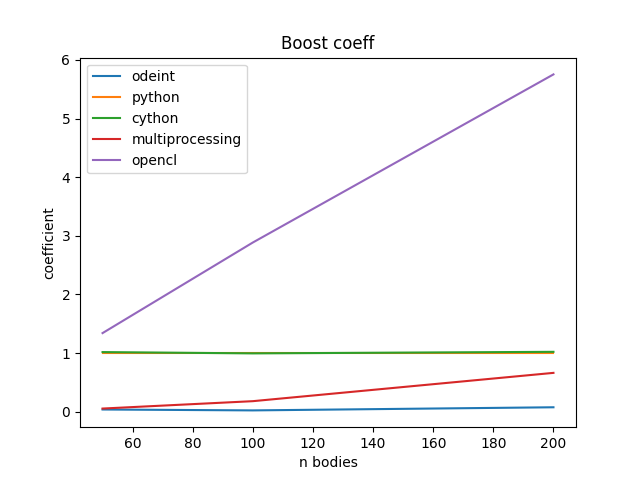
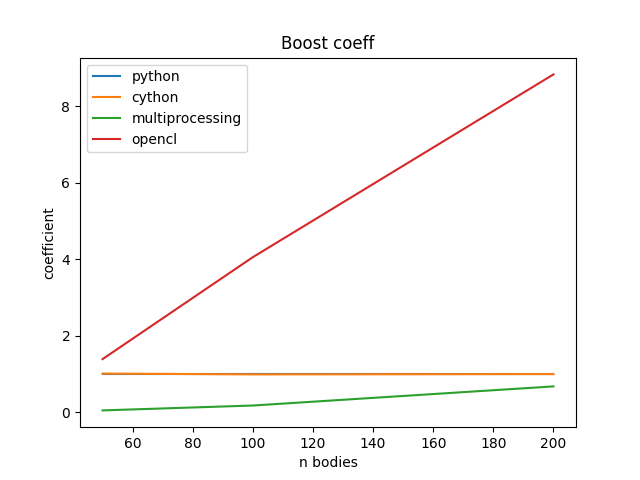
opencl KISS fix

diff --git a/task_03/test_position.py b/task_03/test_position.py
@@ -31,7 +31,7 @@ def animate_planets(planets, R, title="some_title"):
     h = 5 * scale
     plt.style.use("dark_background")
     fig = plt.figure()
-    ax = plt.axes(xlim=(-w, w + scale), ylim=(-h, h))
+    ax = plt.axes(xlim=(-w, w), ylim=(-h, h))
     ax.set_facecolor((0, 0, 0.1))
     ax.set_title(title, color="#ffffff")
 
@@ -39,7 +39,6 @@ def animate_planets(planets, R, title="some_title"):
     legend_elements = [lines.Line2D([0], [0], color=i.color, lw=lw) for i in planets]
     ax.legend(legend_elements, [i.name for i in planets], loc='upper right')
     planet_circles = [planet_to_circle(planet) for planet in planets]
-
 
     def init():
         for pc in planet_circles:
@@ -63,7 +62,7 @@ def animate_planets(planets, R, title="some_title"):
 
 if __name__ == "__main__":
     scale = 10 ** 12
-    dt = 1.5 * 10**7
+    dt = 1.5 * 10**6
     n_iters = 1000
     G= 6.6743 * 10 ** -11
 
@@ -74,7 +73,15 @@ if __name__ == "__main__":
             1.9 * 10**30,
             "#f9d71c",
             "Sun",
-             0.3 * scale
+             0.2 * scale
+        ),
+        PlanetInfo(
+            arr([0.2, 0]) * scale,
+            arr([0.0, 24.13]) * 10 ** 3,
+            6.4171 * 10**23,
+            "#a1251b",
+            "Mars",
+            0.1 * scale
         ),
         PlanetInfo(
             arr([0.8, 0]) * scale,
@@ -98,7 +105,7 @@ if __name__ == "__main__":
             0.87 * 10**26,
             "#0000ff",
             "Neptune",
-             0.1 * scale
+            0.1 * scale
         ),
         PlanetInfo(
             arr([4.5, 0.0]) * scale,
@@ -118,7 +125,7 @@ if __name__ == "__main__":
         "odeint" : python_solvers.OdeintSolver(dt, n_iters, G),
         "python" : python_solvers.PythonVerletSolver(dt, n_iters, G),
         "cython" : cython_solver.CythonSolver(dt, n_iters, G),
-        "multiprocessing" : python_solvers.MultiprocessingVerletSolver(dt, n_iters, G),
+        "multiprocessing" : python_solvers.MultiprocessingVerletSolver(dt, n_iters, G, n_workers=len(planets)),
         "opencl" : opencl_solver.OpenCLSolver(dt, n_iters, G)
     }
     solutions = {}
@@ -130,9 +137,9 @@ if __name__ == "__main__":
     for solver in solutions:
         diff = (solutions['odeint'] - solutions[solver]) ** 2
         diff = np.sum(diff, axis=2)
-        diff = np.sum(diff, axis=1)
         diff = np.sqrt(diff)
+        diff = np.mean(diff, axis=1)
 
-        plt.plot(diff, label=solver, alpha=0.3)
+        plt.plot(diff, label=solver, alpha=0.7)
     plt.legend()
     plt.savefig("plots\\diff.png")

diff --git a/task_03/opencl_solver.py b/task_03/opencl_solver.py
@@ -13,8 +13,7 @@ class OpenCLSolver:
         platform = cl.get_platforms()[0]
         device = platform.get_devices()[0]
         self.ctx = cl.Context([device])
-        self.queue = cl.CommandQueue(self.ctx)
-        
+        self.queue = cl.CommandQueue(self.ctx)        
 
     def solve(self, r_0, v_0, m_0):
         self.program = cl.Program(self.ctx, f"#define N_DIM {int(r_0.shape[1])}\n" + open("opencl_solver.cl").read()).build()
@@ -35,7 +34,7 @@ class OpenCLSolver:
         self.program.solve(
             self.queue, 
             (r_0.shape[0],), 
-            (self.group_size, ), 
+            None, 
             R_buf, V_buf, A_buf, m_buf, 
             np.double(self.G), np.double(self.dt), np.int32(r_0.shape[0]), 
             np.int32(r_0.shape[1]), np.int32(self.n_iters), localmem)
